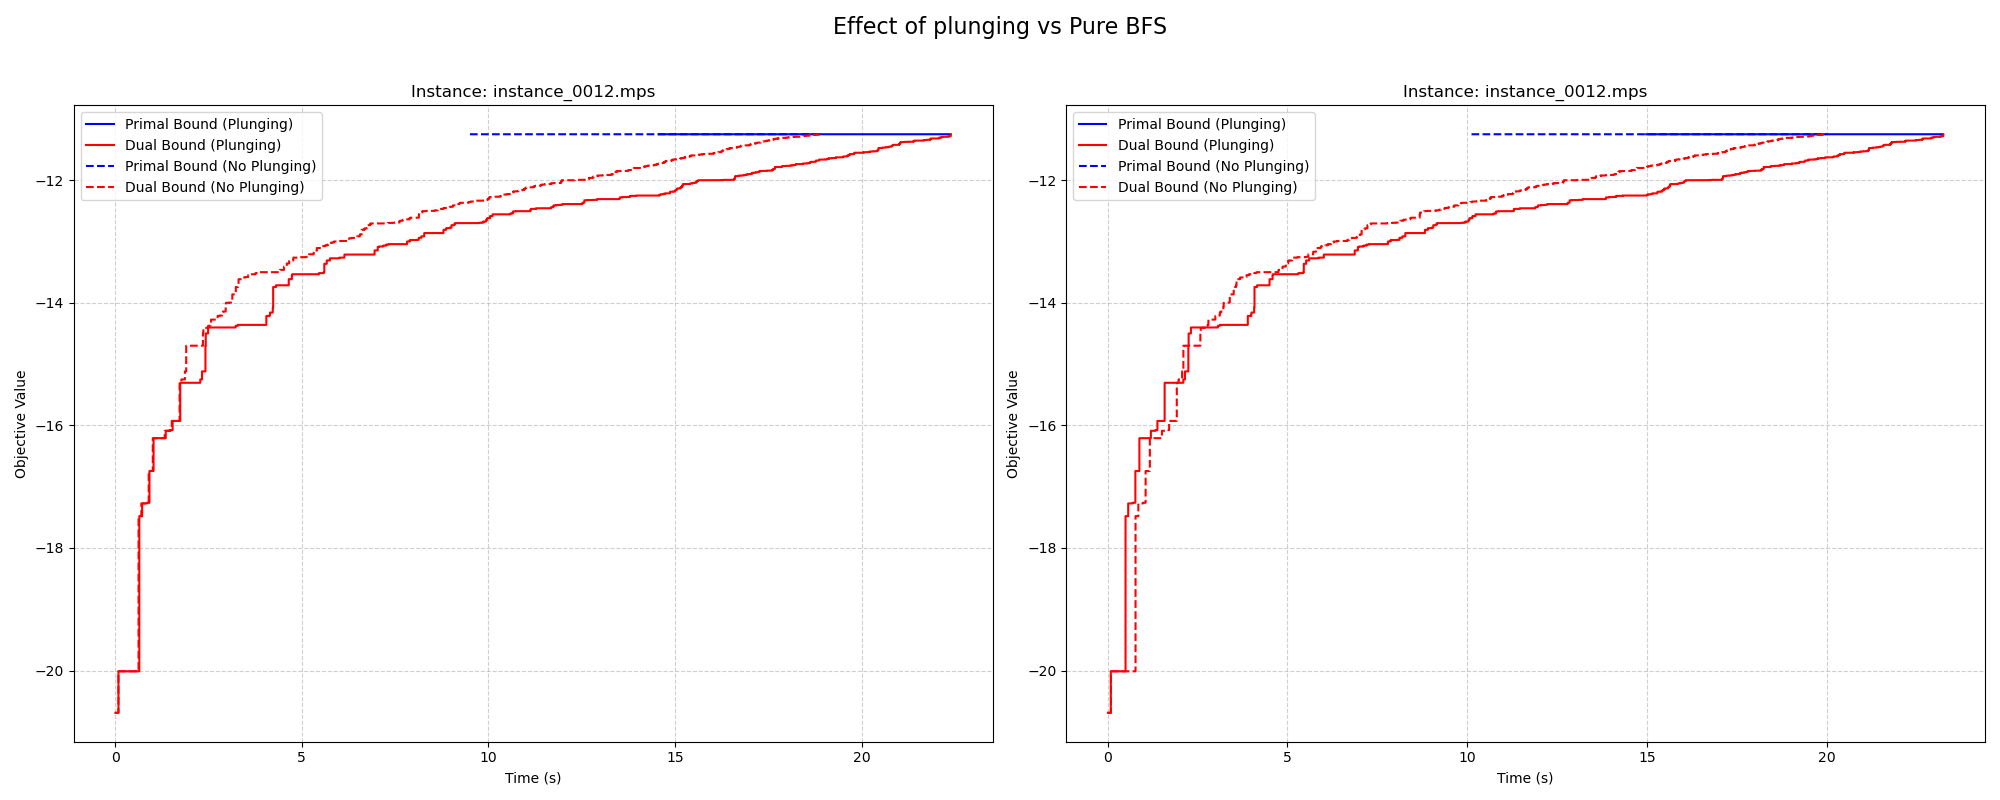
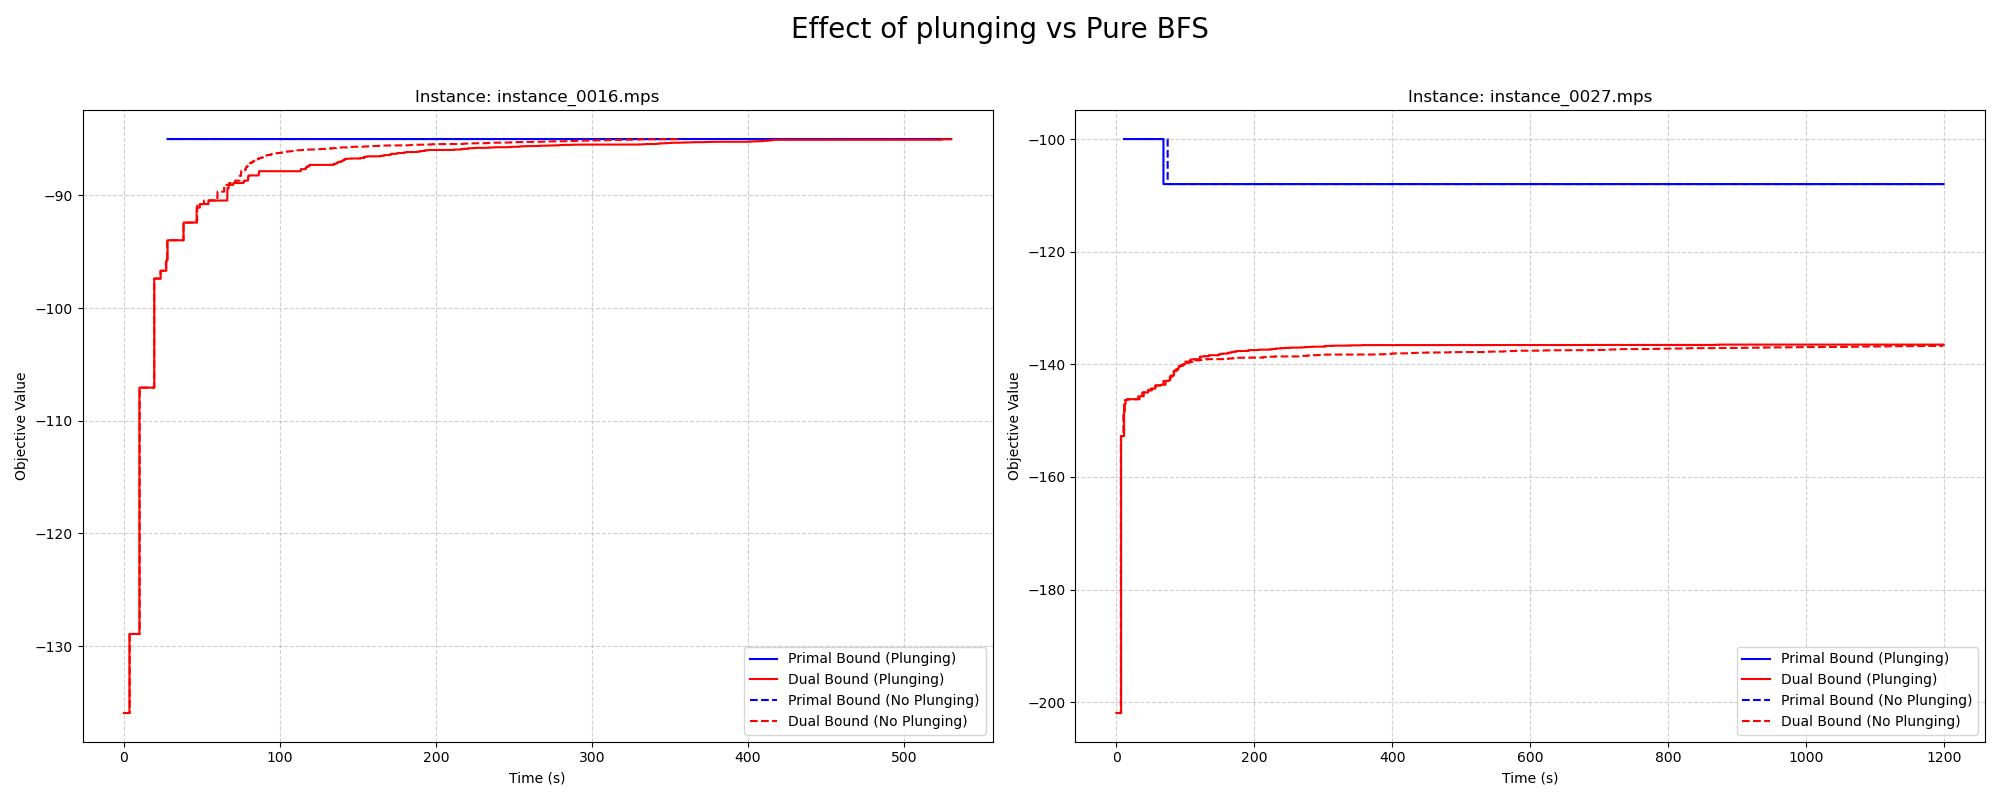
more changes in tester

diff --git a/bnb/solver.py b/bnb/solver.py
@@ -70,7 +70,7 @@ class BranchAndBoundSolver:
         times=[]
         primal_bounds=[]
         dual_bounds=[]
-        TIMEOUT_SECONDS = 1200
+        TIMEOUT_SECONDS = 600
 
         ### Initializing cliques
 
@@ -150,7 +150,7 @@ class BranchAndBoundSolver:
 
                 ########## CHECK IF WE HAVE TIME #########
 
-                if time.time() - start_total_solver_time > TIMEOUT_SECONDS:
+                if time.time() - start_tree_time > TIMEOUT_SECONDS:
                     print("\n⏰ Timeout limit reached. Terminating search.")
                     break  # Exit the loop gracefully
 
@@ -336,11 +336,9 @@ class BranchAndBoundSolver:
         for iteration in range(self.fp_max_it):
             try:
                 x_round = np.round(x_bar) # Simplified rounding
-
                 if self._check_lp_feasibility(x_round):
                     final_obj = np.dot(self.instance.obj, x_round)
                     return final_obj, x_round
-
                 if iteration > 0 and 'distance' in locals() and distance >= previous_distance:
                     stall_counter += 1
                     if stall_counter > 20:
@@ -353,15 +351,11 @@ class BranchAndBoundSolver:
                         if self.instance.var_types[j] == 'B': x_round[j] = 1 - x_round[j]
                 else:
                     stall_counter = 0
-
                 for j in self.pump_dist_constrs_le:
                     self.pump_dist_constrs_le[j].RHS = x_round[j]
                     self.pump_dist_constrs_ge[j].RHS = x_round[j]
-
                 self.pump_model.optimize()
-
                 if self.pump_model.Status != GRB.OPTIMAL: return None, None
-
                 distance = self.pump_model.ObjVal
                 previous_distance = distance
                 x_bar = np.array(list(self.pump_model.getAttr("X", self.pump_x_vars).values()))
@@ -369,14 +363,11 @@ class BranchAndBoundSolver:
                     if self._count_integer_infeasibilities(x_bar) == 0:
                         final_obj = np.dot(self.instance.obj, x_bar) #+self.instance.obj_const
                         return final_obj, x_bar
-
             except Exception as e:
                 import traceback
                 traceback.print_exc()
                 return None, None
-
         return None, None
-
 
 
     def _separate_clique_cuts(self,node,working_model):
@@ -435,61 +426,48 @@ class BranchAndBoundSolver:
             if not fractional_vars:
                 dive_obj = np.dot(self.instance.obj, current_solution) #+ self.instance.obj_const
                 return dive_obj,current_solution
-
             sr_sol = self._simple_rounding_heuristic(current_solution,fractional_vars)
             fractional_vars = [(j, sr_sol[j]) for j in self.I if abs(sr_sol[j] - round(sr_sol[j])) > 1e-6]
             if not fractional_vars:
                 dive_obj = np.dot(self.instance.obj, sr_sol)# + self.instance.obj_const
                 return dive_obj, sr_sol
-
             binary_fractional_vars_after_round = [(j, sr_sol[j]) for j in self.B if abs(sr_sol[j] - round(sr_sol[j])) > 1e-6]
-
             if not binary_fractional_vars_after_round:
                 fractional_vars_after_round = fractional_vars
             else:
                 fractional_vars_after_round = binary_fractional_vars_after_round
-
             best_dive_var = -1
             min_lock_score = float('inf')
             min_dist_to_int = float('inf')  # Tie-breaker: distance to nearest integer
             for var_idx, frac_value in fractional_vars_after_round:
                 down_lock=self.down_locks[var_idx]
                 up_lock=self.up_locks[var_idx]
-
                 current_score = min(down_lock, up_lock)
-
                 if current_score < min_lock_score:
                     min_lock_score = current_score
                     best_dive_var = var_idx
                     min_dist_to_int = min(frac_value - np.floor(frac_value), np.ceil(frac_value) - frac_value)
-
                 elif current_score==min_lock_score:
                     current_dist_to_int = min(frac_value - np.floor(frac_value), np.ceil(frac_value) - frac_value)
                     if current_dist_to_int < min_dist_to_int:
                         best_dive_var = var_idx
                         min_dist_to_int = current_dist_to_int
-
             if best_dive_var == -1:
                 best_dive_var = max(fractional_vars_after_round, key=lambda item: 0.5 - abs(item[1] - 0.5))[0]
-
             dive_down = self.down_locks[best_dive_var] <= self.up_locks[best_dive_var]
             val = current_solution[best_dive_var]
             bound_change = {}
             if dive_down:
-                # print(f"   [Dive Step {dive_step + 1}] Diving DOWN on var {best_dive_var} (value {val:.2f})")
                 bound_change = {best_dive_var: (self.instance.lb[best_dive_var], np.floor(val))}
             else:
-                # print(f"   [Dive Step {dive_step + 1}] Diving UP on var {best_dive_var} (value {val:.2f})")
                 bound_change = {best_dive_var: (np.ceil(val), self.instance.ub[best_dive_var])}
             dive_node = Node(parent=current_node, bound_changes=bound_change, depth=current_node.depth + 1)
             active_path.switch_focus(dive_node, working_model)
             dive_node.evaluate_lp(working_model, self.instance)
             if dive_node.is_infeasible:
                 break
-
             current_solution = dive_node.solution
             current_node = dive_node
-
         active_path.switch_focus(original_focus, working_model)
         return None, None
 
@@ -525,7 +503,6 @@ class BranchAndBoundSolver:
 
 
     def _count_integer_infeasibilities(self, sol, tol=1e-6):
-        """Counts how many integer/binary variables have fractional values."""
         if sol is None:
             return float('inf')
         return sum(1 for i, vtype in enumerate(self.instance.var_types)

diff --git a/final_tester_3.py b/final_tester_3.py
@@ -26,9 +26,10 @@ def run_and_get_history(instance_path, plunging_test):
 if __name__ == "__main__":
 
     INSTANCE_FOLDER = "Test_instances"
+    # instances_to_test=["instance_0016.mps","instance_0027.mps"]
     instances_to_test = ["instance_0018.mps","model_S1_Jc0_Js12_T96.mps"]
     fig, axes = plt.subplots(1, 2, figsize=(20, 8))
-    fig.suptitle('Effect of plunging vs Pure BFS', fontsize=16)
+    fig.suptitle('Effect of plunging vs Pure BFS', fontsize=20)
 
     for i, filename in enumerate(instances_to_test):
         ax=axes[i]
@@ -56,7 +57,7 @@ if __name__ == "__main__":
 
         # --- Save and Show ---
     plt.tight_layout(rect=[0, 0, 1, 0.96])  # Adjust layout to make room for suptitle
-    plot_filename = "convergence_comparison_3.png"
+    plot_filename = "convergence_comparison_33.png"
     plt.savefig(plot_filename)
 
     print(f"\n📈 Comparison plot saved to {plot_filename}")

diff --git a/final_tester_2.py b/final_tester_2.py
@@ -26,10 +26,10 @@ def run_and_get_history(instance_path, clique_cuts_test):
 if __name__ == "__main__":
 
     INSTANCE_FOLDER = "Test_instances"
-    instances_to_test = ["instance_0027.mps","model_S1_Jc0_Js11_T96.mps"]
+    instances_to_test = ["instance_0027.mps","instance_0016.mps"]
 
     fig, axes = plt.subplots(1, 2, figsize=(20, 8))
-    fig.suptitle('Effect of clique cuts', fontsize=16)
+    fig.suptitle('Effect of clique cuts', fontsize=20)
 
     for i, filename in enumerate(instances_to_test):
         ax=axes[i]

diff --git a/final_tester.py b/final_tester.py
@@ -27,7 +27,7 @@ if __name__ == "__main__":
 
     INSTANCE_FOLDER = "Test_instances"
     instances_to_test = ["instance_0016.mps","instance_0027.mps"]
-    # instances_to_test=["instance_0012.mps","instance_0012.mps"]
+    # instances_to_test=["instance_0012.mps","instance_0016.mps"]
     solver_params = {
         'enable_plunging': True,
         'k_plunging': 10,
